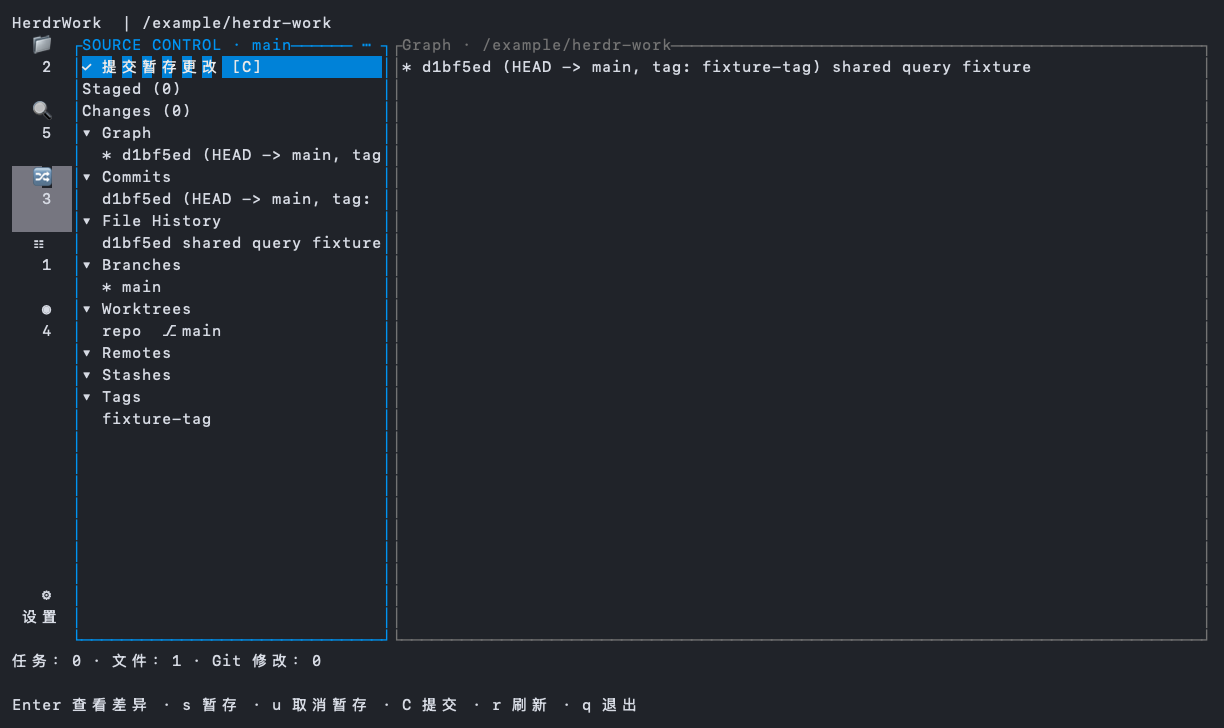
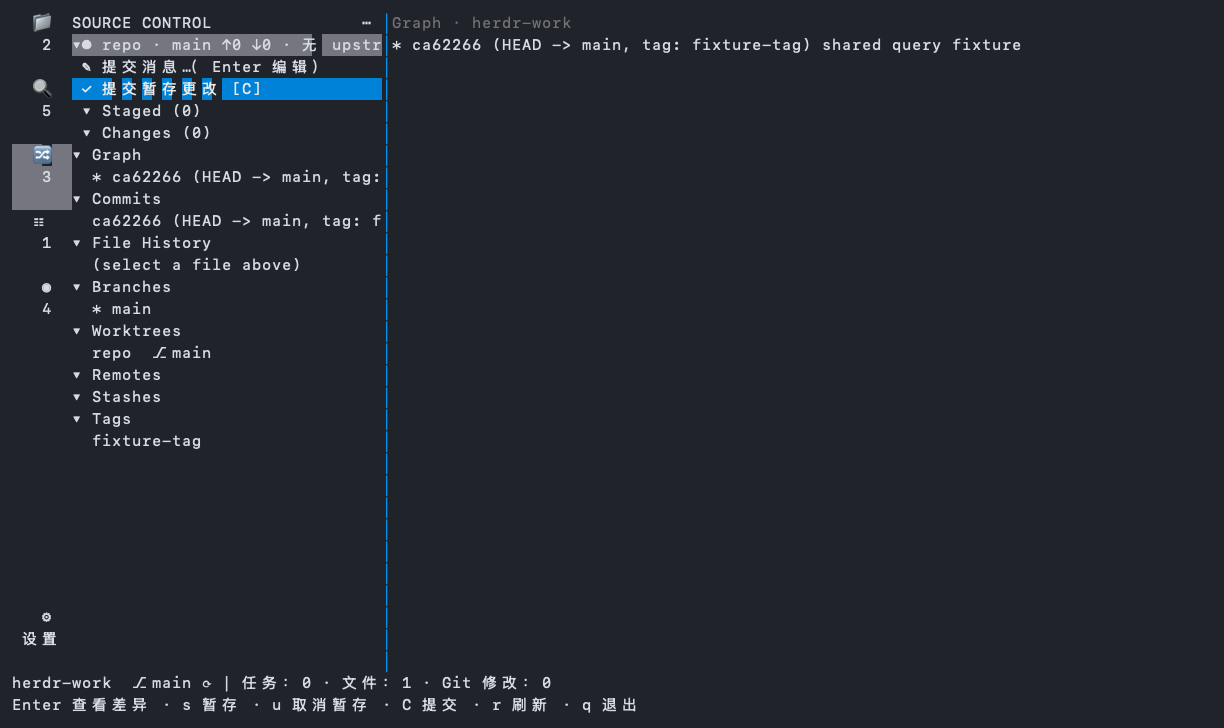
docs: 记录共享预览状态及紧凑布局验收截图 #29 #36
关联：docs/plans/sidebar-alignment.md。回写搜索、编辑、Doc、工作区状态与自有宿主接口的真实复用；保留待定宿主布局及原 Projects fixture 基线差异。更新由临时 Git/TestBackend 生成且经过隐私检查的界面图片，显示同层单行顶部和活动仓库底栏。验证：最终原始集成私有PTY、来源UI54项和Python14项通过；待审查修正后再固定发布SHA。

diff --git a/docs/upstream/source-map.md b/docs/upstream/source-map.md
@@ -58,7 +58,7 @@ HerdrWork 自身补充执行身份、epoch/generation、草稿、固定发送批
 
 ## 搜索与历史接入补丁（#30）
 
-Sidebar 固定基线不变。`search::collect_quick_files/quick_matches` 经 Engine 的 `QuickIndex` 缓存供实时输入使用；内容搜索延续原 `explorer_app` 的 300 ms 防抖和单个在途请求策略，产品 epoch/请求号拒绝失效结果。输入、筛选和结果在同一侧栏内操作；命中行号作为加载目标保存，并交给原 `Editor` 定位。
+Sidebar 固定基线不变。`search::collect_quick_files/quick_matches` 经 Engine 的 `QuickIndex` 缓存供实时输入使用；内容搜索延续原 `explorer_app` 的 300 ms 防抖和单个在途请求策略，产品 epoch/请求号拒绝失效结果。输入、筛选和结果在同一侧栏内操作；命中行号作为加载目标保存，并交给共享 `Doc` 和原 `Editor` 定位。
 
 原 `viewer::load_show` 的 Git 参数构造抽至共享 `scm::show_args`，来源 viewer 和产品 Engine 均调用同一实现，保留 stat、patch、路径过滤、禁用外部 Diff 及颜色；产品绘制调用来源 `ansi::to_lines`。File History 从当前 SCM 文件及其仓库创建快照，详情继续使用该快照的文件目标。没有新增另一套搜索或 patch 算法。
 
@@ -73,7 +73,7 @@ Sidebar 固定基线不变。`search::collect_quick_files/quick_matches` 经 Eng
 
 机械抽取后增加必要适配：文本读取上限 1 MiB/5000 行，避免原先先整文件读取再截断；glow 与 ffmpeg 都跳过相对 PATH、当前目录及活动工作目录内的程序，输出和等待有界，失败回退到代码/文本或可见媒体提示。复制沿原 native/OSC52 策略与队列顺序，OSC52 只由唯一事件循环输出；自动复制开关来自 HerdrWork 的 ui.json，队列随产品界面关闭而停止。
 
-文档身份为文件路径，固定状态、源行位置和换行在产品内存中维护；临时预览可替换，固定文档可切换和关闭。共享 `ViewState` 仅含一基源行与换行，供后续产品状态恢复使用，不保存像素、选区或编辑缓冲。未运行、读取或控制独立插件。
+文档身份为文件路径，临时预览可替换，固定文档可切换和关闭。共享 `ViewState` 仅含一基源行与换行；产品按目录实例保存固定文档身份与该状态，后台恢复不覆盖新打开的文档或 dirty 编辑器，不保存像素、选区或编辑缓冲。未运行、读取或控制独立插件。
 
 ## 自有宿主活动入口（#35）
 
